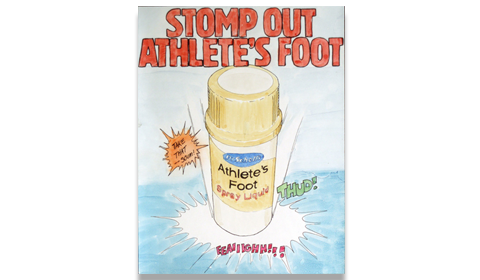
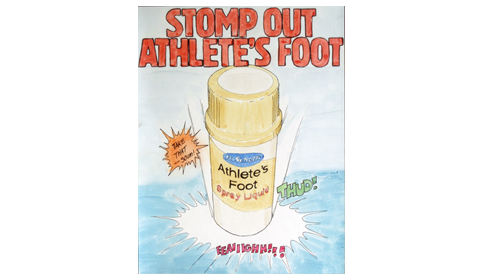
test

Changed region(s): [[0.2812, 0.9714, 0.7188, 1.0]]

diff --git a/public/pages/portfolio.html b/public/pages/portfolio.html
@@ -252,7 +252,7 @@
               <!-- Portfolio Media -->
               <figure class="otw_portfolio_manager-portfolio-media otw_portfolio_manager-format-image">
                 <a href="/images/dr-scholls_1024x640.png" class="otw_portfolio_manager-fancybox-img">
-                  <img src="/images/dr-scholls_480x280.jpg" width="480" height="280" alt="" data-item="media">
+                  <img src="/images/dr-scholls_480x280.png" width="480" height="280" alt="" data-item="media">
                 </a>
               </figure>
               <!-- End Portfolio Media -->
